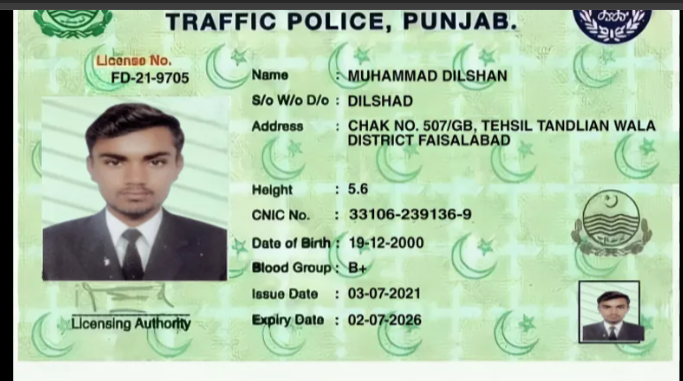
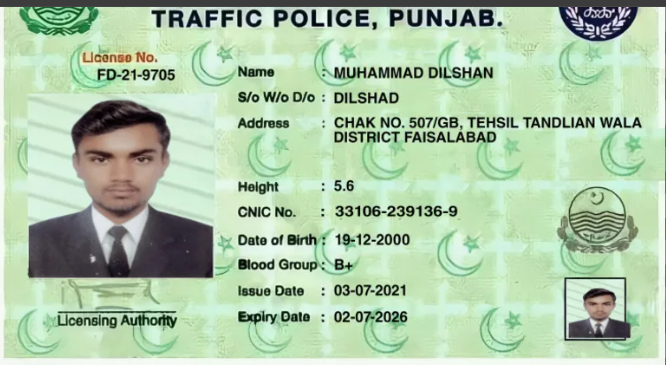
links can be extracted from texts

diff --git a/app/services/verification_service.py b/app/services/verification_service.py
@@ -1,0 +1,52 @@
+def generate_verification_report(document_type: str, extracted_data: dict) -> dict:
+    """
+    Analyzes the extracted data to check for missing fields and calculates a completeness score.
+    """
+    report = {
+        "completeness_score": 0,
+        "verification_status": "Pending",
+        "missing_fields": [],
+        "recommended_action": "None"
+    }
+
+    # If the document is unknown, we can't verify it
+    if document_type == "Unknown/Unclassified":
+        report["verification_status"] = "Manual Review Required"
+        report["recommended_action"] = "Please upload a valid CNIC, Resume, or Transcript."
+        return report
+
+    # 1. Define the required fields for each document type
+    # 1. Define the required fields for each document type
+    required_fields = []
+    if document_type == "CNIC":
+        required_fields = ["identity_number", "date_of_birth", "date_of_issue", "date_of_expiry"]
+    elif document_type == "Resume":
+        # Added LinkedIn and GitHub to the required verification checklist
+        required_fields = ["emails", "phone_numbers", "linkedin_urls", "github_urls"]
+    # 2. Check which fields are missing or empty
+    present_fields = 0
+    for field in required_fields:
+        value = extracted_data.get(field)
+        # Check if the value exists and is not empty (handles strings and lists)
+        if value and len(value) > 0:
+            present_fields += 1
+        else:
+            report["missing_fields"].append(field)
+
+    # 3. Calculate Completeness Score (0 to 100)
+    if required_fields:
+        score = int((present_fields / len(required_fields)) * 100)
+        report["completeness_score"] = score
+
+    # 4. Determine Status & Actions based on the score
+    if report["completeness_score"] == 100:
+        report["verification_status"] = "Verified"
+        report["recommended_action"] = "Proceed to automated approval pipeline."
+    elif report["completeness_score"] >= 50:
+        report["verification_status"] = "Partially Verified"
+        report["recommended_action"] = "Flagged for human review. Missing partial data."
+    else:
+        report["verification_status"] = "Rejected"
+        report["recommended_action"] = "Request user to re-upload a clearer document."
+
+    return report

diff --git a/app/services/nlp_service.py b/app/services/nlp_service.py
@@ -29,22 +29,29 @@ def extract_cnic_data(raw_text: str) -> dict:
 
 
 def extract_resume_data(raw_text: str) -> dict:
-    """Extracts contact information and basic entities from a Resume."""
+    """Extracts contact information, professional links, and basic entities from a Resume."""
     extracted_data = {
         "emails": [],
-        "phone_numbers": []
+        "phone_numbers": [],
+        "linkedin_urls": [],
+        "github_urls": []
     }
     
     # 1. Regex for Email Addresses
     email_pattern = r'[a-zA-Z0-9_.+-]+@[a-zA-Z0-9-]+\.[a-zA-Z0-9-.]+'
-    emails = re.findall(email_pattern, raw_text)
-    # Use set() to remove any duplicate emails Tesseract might have read twice
-    extracted_data["emails"] = list(set(emails))
+    extracted_data["emails"] = list(set(re.findall(email_pattern, raw_text)))
     
-    # 2. Regex for Phone Numbers (Optimized for local +92 and 03XX formats, plus generic)
+    # 2. Regex for Phone Numbers 
     phone_pattern = r'(?:\+?92[\s\-]?|0)?3\d{2}[\s\-]?\d{7}'
-    phones = re.findall(phone_pattern, raw_text)
-    extracted_data["phone_numbers"] = list(set(phones))
+    extracted_data["phone_numbers"] = list(set(re.findall(phone_pattern, raw_text)))
+    
+    # 3. Regex for LinkedIn Profiles
+    linkedin_pattern = r'(?:https?:\/\/)?(?:www\.)?linkedin\.com\/in\/[a-zA-Z0-9_-]+'
+    extracted_data["linkedin_urls"] = list(set(re.findall(linkedin_pattern, raw_text)))
+
+    # 4. Regex for GitHub Profiles
+    github_pattern = r'(?:https?:\/\/)?(?:www\.)?github\.com\/[a-zA-Z0-9_-]+'
+    extracted_data["github_urls"] = list(set(re.findall(github_pattern, raw_text)))
     
     return extracted_data
 

diff --git a/app/api/endpoints.py b/app/api/endpoints.py
@@ -4,6 +4,7 @@ import shutil
 from app.services.ocr_service import extract_text_from_file
 from app.services.nlp_service import extract_structured_data
 from app.services.classification_service import classify_document
+from app.services.verification_service import generate_verification_report # <-- NEW IMPORT
 
 router = APIRouter()
 UPLOAD_DIR = "uploaded_docs"
@@ -27,20 +28,24 @@ async def upload_document(file: UploadFile = File(...)):
     except Exception as e:
         raise HTTPException(status_code=500, detail=f"Could not save file: {str(e)}")
 
-    # 1. Get raw text
+    # 1. OCR Extraction
     raw_text = extract_text_from_file(file_path)
     
-    # 2. Classify document
+    # 2. Classification
     document_type = classify_document(raw_text)
     
-    # 3. Extract data dynamically based on the classification
+    # 3. Data Extraction
     structured_data = extract_structured_data(raw_text, document_type)
+    
+    # 4. Verification & Scoring (NEW STEP)
+    verification_report = generate_verification_report(document_type, structured_data)
 
     return {
         "filename": file.filename,
         "status": "success",
         "message": "Document processed successfully",
         "document_type": document_type,
+        "verification_report": verification_report, # <-- NEW: The AI decision layer
         "extracted_data": structured_data, 
         "raw_text": raw_text
     }
